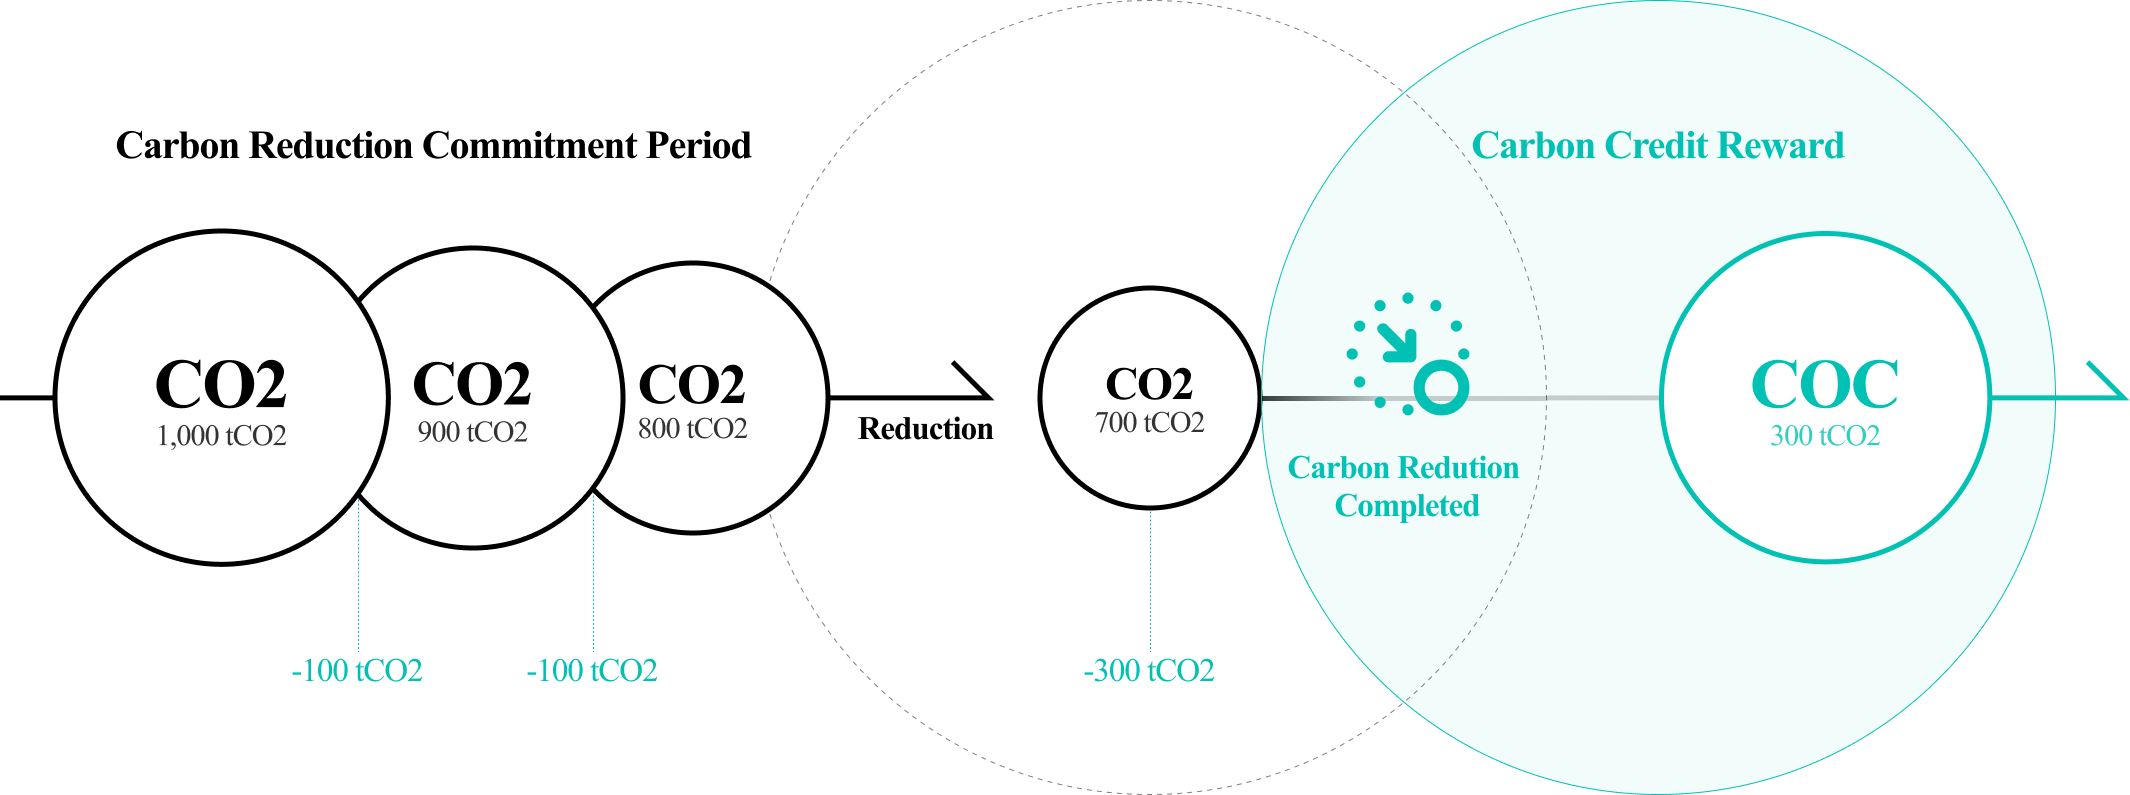
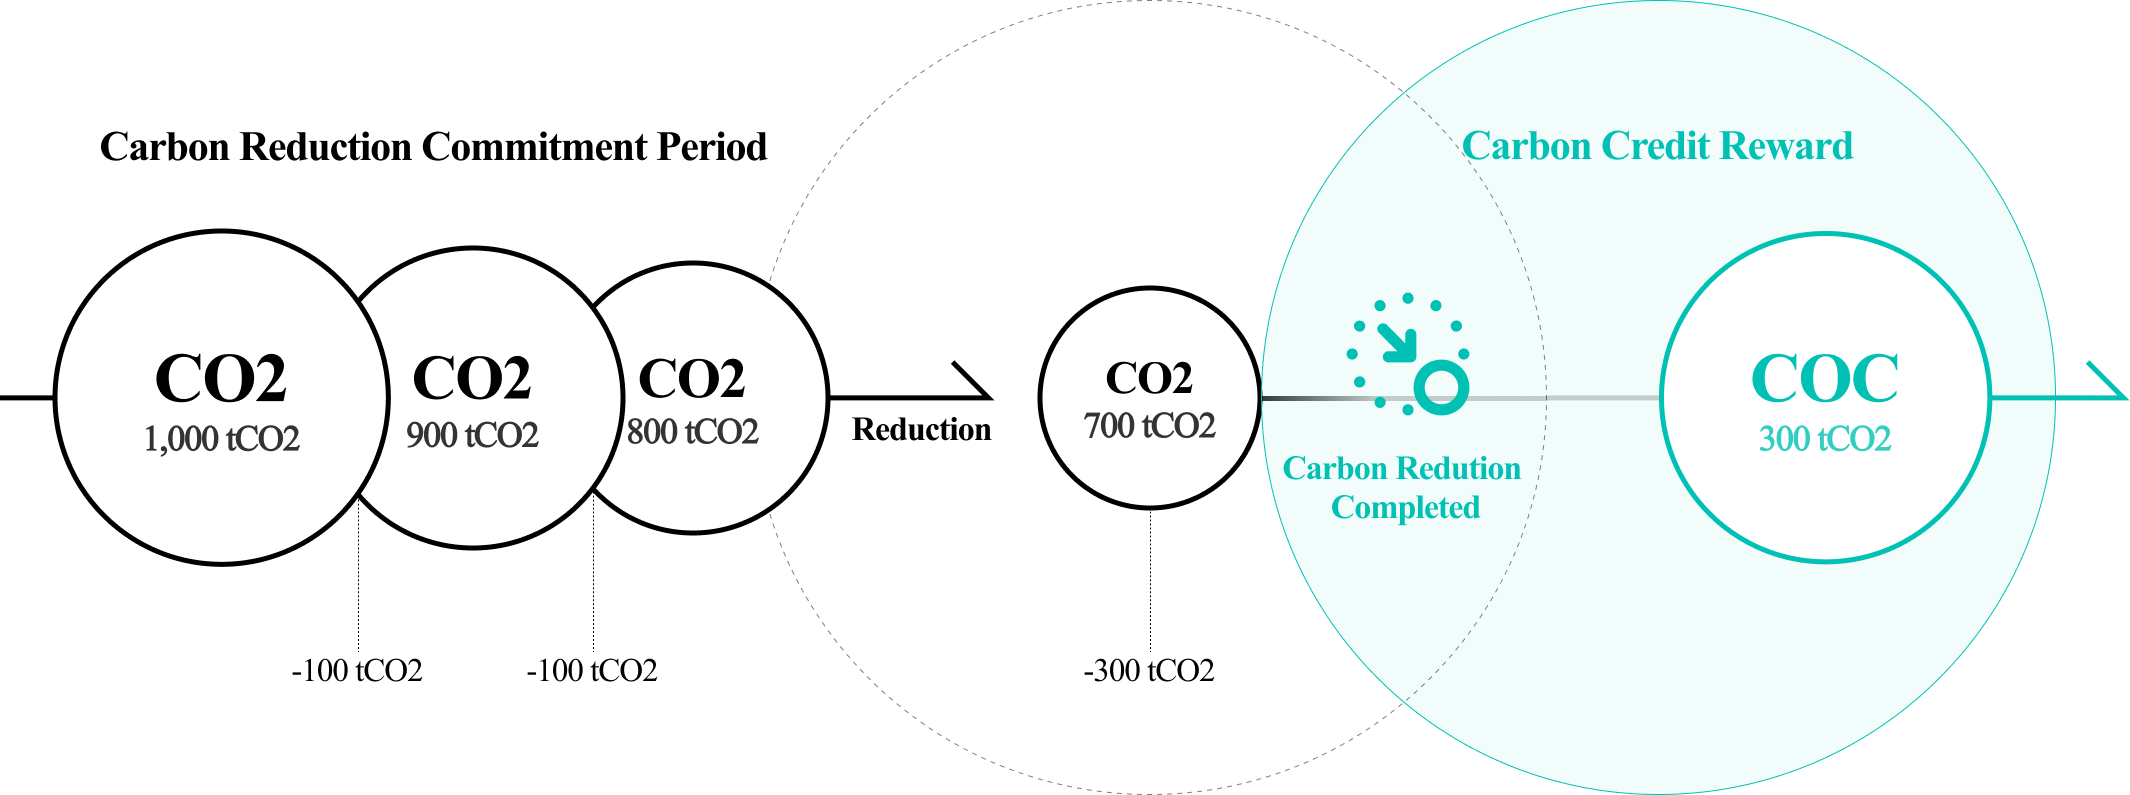
update

diff --git a/gesiaio__241118/common/js/canvas2.js b/gesiaio__241118/common/js/canvas2.js
@@ -295,23 +295,6 @@ function resizeCanvas() {
             let borderColor = 'rgba(50,50,50,1)';
             let textColor = 'rgba(50,50,50,1)';
             
-            // Special styling for "Notarized Multi-Signature Oracle"
-            if (text === "Notarized Multi-Signature Oracle") {
-                if (dashedLines.line1 && !dashedLines.line2) {
-                    // Only line1 is true: special border color
-                    textColor = '#333';
-                    borderColor = '#333';
-                } else if (dashedLines.line1 && dashedLines.line2) {
-                    // Both lines are true: special background and white text
-                    textColor = '#333';
-                    borderColor = '#333';
-                }else {
-                     textColor = 'rgba(50,50,50,0)';
-                     backgroundColor = 'rgba(255,255,255,0)';
-                    borderColor = 'rgba(50,50,50,0)';
-                }
-            }
-            
             ctx.fillStyle = backgroundColor;
             ctx.beginPath();
             ctx.roundRect(x - width/2, y - height/2, width, height, radius);
@@ -506,11 +489,11 @@ function resizeCanvas() {
                 ctx.fill();
                 
                 // 점 번호 그리기
-                // const textRadius = radius + 15;
-                // const textPos = calculatePointPosition(point, circle2X, centerY, textRadius);
-                // ctx.fillStyle = 'rgba(50,50,50,1)';
-                // ctx.font = '11px Times New Roman';
-                // ctx.fillText(`N${point.number}`, textPos.x, textPos.y);
+                const textRadius = radius + 15;
+                const textPos = calculatePointPosition(point, circle2X, centerY, textRadius);
+                ctx.fillStyle = 'rgba(50,50,50,1)';
+                ctx.font = '11px Times New Roman';
+                ctx.fillText(`N${point.number}`, textPos.x, textPos.y);
             });
         
             // 타이틀과 내부 텍스트
@@ -630,7 +613,7 @@ function animate() {
                             dashedLines.line1 = false;
                             dashedLines.line2 = false;
                             shouldClearDashedLines = false;
-                        }, 150);
+                        }, 20);
                     }
                     
                     // Reset segment and movement for next path

diff --git a/gesiaio__241118/common/js/common.js b/gesiaio__241118/common/js/common.js
@@ -152,7 +152,7 @@ let lang33 = ["", ""];
 let lang34 = ["", ""];
 let lang35 = ["<b>Net-Zero Consensus</b>", "<b>넷제로 컨센서스</b>"];
 let lang36 = ["<B>Creating a digital carbon management platform<br/> that connects carbon emissions with reduction</b>", "<B>탄소 배출과 감축을 연결하는 <br/>디지털 탄소 관리 플랫폼을 구축</b>"];
-let lang37 = ["The Net Zero Consensus is a mechanism designed to transparently manage and coordinate carbon emissions, reductions, and carbon credits. It leverages blockchain technology to reliably verify and record carbon credits (emission rights and offset credits), reduction activities, and the burning process.", "The Net Zero Consensus is a mechanism designed to transparently manage and coordinate carbon emissions, reductions, and carbon credits. It leverages blockchain technology to reliably verify and record carbon credits (emission rights and offset credits), reduction activities, and the burning process."];
+let lang37 = ["The Net Zero Consensus is a mechanism designed to transparently manage and coordinate carbon emissions, reductions, and carbon credits. <Br/>It leverages blockchain technology to reliably verify and record carbon credits (emission rights and offset credits), reduction activities, and the burning process.", "The Net Zero Consensus is a mechanism designed to transparently manage and coordinate carbon emissions, reductions, and carbon credits. <Br/>It leverages blockchain technology to reliably verify and record carbon credits (emission rights and offset credits), reduction activities, and the burning process."];
 let lang38 = ["<b>Carbon Credit Burning Consensus</b>", "<b>탄소 크레딧 소각 컨센서스</b>"];
 let lang39 = ["<B>Permanent carbon credit burning mechanism for carbon emission offsetting.</b>", "<b>탄소 배출 상쇄를 위한 <br/>영구적인 탄소 크레딧 소각 메커니즘.</b>"];
 let lang40 = ["1. Carbon emission offset and carbon credit burning<br/>2. Carbon emission verification through burn request<br/>3. Thorough verification process via rollup<br/>4. Permanently recorded net-zero status on the blockchain", "1. 탄소 배출 상쇄 및 탄소 크레딧 소각<br/>2. 소각 요청을 통한 탄소 배출 검증<br/>3. 롤업을 통한 철저한 검증 프로세스<br/>4. 블록체인에 영구적으로 기록된 넷제로 상태"];

diff --git a/gesiaio__241118/common/js/canvas.js b/gesiaio__241118/common/js/canvas.js
@@ -350,7 +350,7 @@ drawStatusText() {
         this.ctx.font = `${percentageFontSize} Times New Roman`;
         this.ctx.fillText('100%',
             this.canvas.width/2,
-            baseY + spacing - 1);
+            baseY + spacing - 3);
             
         // evolution 텍스트도 동일하게 단일 스페이스 적용
         this.ctx.font = `${evolutionFontSize} Times New Roman`;
@@ -390,7 +390,7 @@ drawImages() {
     
     // 더 작은 폰트 크기와 간격으로 조정
     const fontSize = Math.min(Math.max(Math.floor(this.circleRadius * 0.2), 16), 24); // 최대 24px로 제한
-    const smallFontSize = Math.min(Math.max(Math.floor(this.circleRadius * 0.1), 10), 14); // 최대 14px로 제한
+    const smallFontSize = Math.min(Math.max(Math.floor(this.circleRadius * 0.1), 10), 13); // 최대 14px로 제한
     
     // 텍스트 수직 간격을 더 좁게 조정
     const verticalSpacing = fontSize * 0.8; // 0.8에서 0.6으로 감소
@@ -629,7 +629,7 @@ drawPointText() {
                 // 새로운 텍스트 페이드 인 (A원에서만)
                 if ( point.circle === 'A') {
                     this.ctx.fillStyle = `rgba(40, 40, 40, ${fadeProgress})`;
-                    const text = `L1(N${point.number}) : L2(N${point.number}) : L3(N${point.number})`;
+                    const text = `L2(N${point.number}) : L3(N${point.number}) : L3(N${point.number})`;
                     this.ctx.fillText(text, textX + additionalOffsetX, textY + additionalOffsetY);
                 }
             } else {

diff --git a/gesiaio__241118/index.html b/gesiaio__241118/index.html
@@ -169,7 +169,7 @@
       </div></div><div class="secItem sec-point"><div class="wrap">
         <div class="titleBox">
           <h2 data-lang="35"><b>Net-Zero Consensus</b></h2>
-          <h4 data-lang="37">The Net Zero Consensus is a mechanism designed to transparently manage and coordinate carbon emissions, reductions, and carbon credits. It leverages blockchain technology to reliably verify and record carbon credits (emission rights and offset credits), reduction activities, and the burning process.
+          <h4 data-lang="37">The Net Zero Consensus is a mechanism designed to transparently manage and coordinate carbon emissions, reductions, and carbon credits. <Br/>It leverages blockchain technology to reliably verify and record carbon credits (emission rights and offset credits), reduction activities, and the burning process.
           </h4>
         </div>
    

diff --git a/gesiaio__241118/common/css/contents.css b/gesiaio__241118/common/css/contents.css
@@ -199,6 +199,9 @@ body.loading .secItem:not(.active){
 .secItem[class*="sec-point"] .titleBox > * {
   margin: 0 auto 12px;
 }
+.secItem[class*="sec-point"] .contentBox li h3{
+  text-align: center;
+}
 
 .secItem[class*="sec-point"]:not(.active) .titleBox .logo{
   background-position: top 100% center;
@@ -257,9 +260,6 @@ body.loading .secItem:not(.active){
 .secItem[class*="sec-detail"] > .fp-tableCell > .wrap {
   background-color: unset;
   padding: unset;
-}
-.secItem[class*="sec-detail"] .titleBox h2 {
-  text-align: center;
 }
 .secItem[class*="sec-detail"] .titleBox .desc {
   border-radius: 12px;
@@ -347,6 +347,8 @@ body.loading .secItem:not(.active){
   text-align: center;
   align-items: center;
   flex: 1;
+  max-width: 1440px;
+  margin: 0 auto;
 }
 .secItem[class*="sec-point"] .contentBox li,
 .secItem[class*="sec-product"] .contentBox li{
